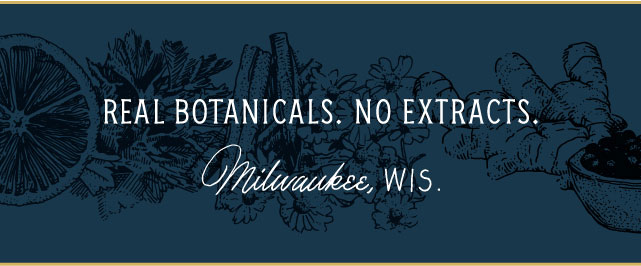
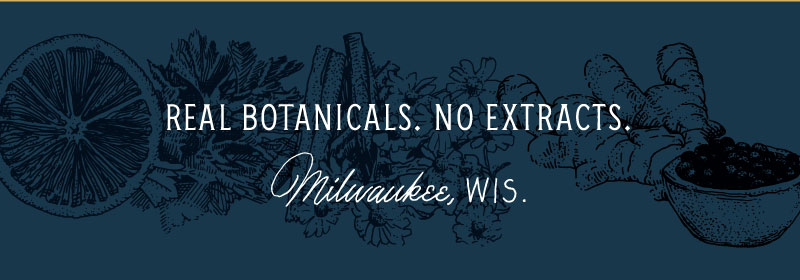
replace real botanical mobile image

diff --git a/src/index.html b/src/index.html
@@ -11,7 +11,7 @@ recipe: oaxacan-old-fashioned
 </div>
 
 <img class="banner-desktop img-fluid" src="/assets/img/real-botanicals.jpg" alt="Real Botanicals. No Extracts. Milwaukee, WIS" />
-<img class="banner-mobile img-fluid" src="/assets/img/real-botanicals-mobile.jpg" alt="Real Botanicals. No Extracts. Milwaukee, WIS" />
+<img class="banner-mobile img-fluid" src="/assets/img/real-botanicals-mobile.jpg" alt="Real Botanicals. No Extracts. Milwaukee, WIS." />
 
 <section>
   <div class="container">
